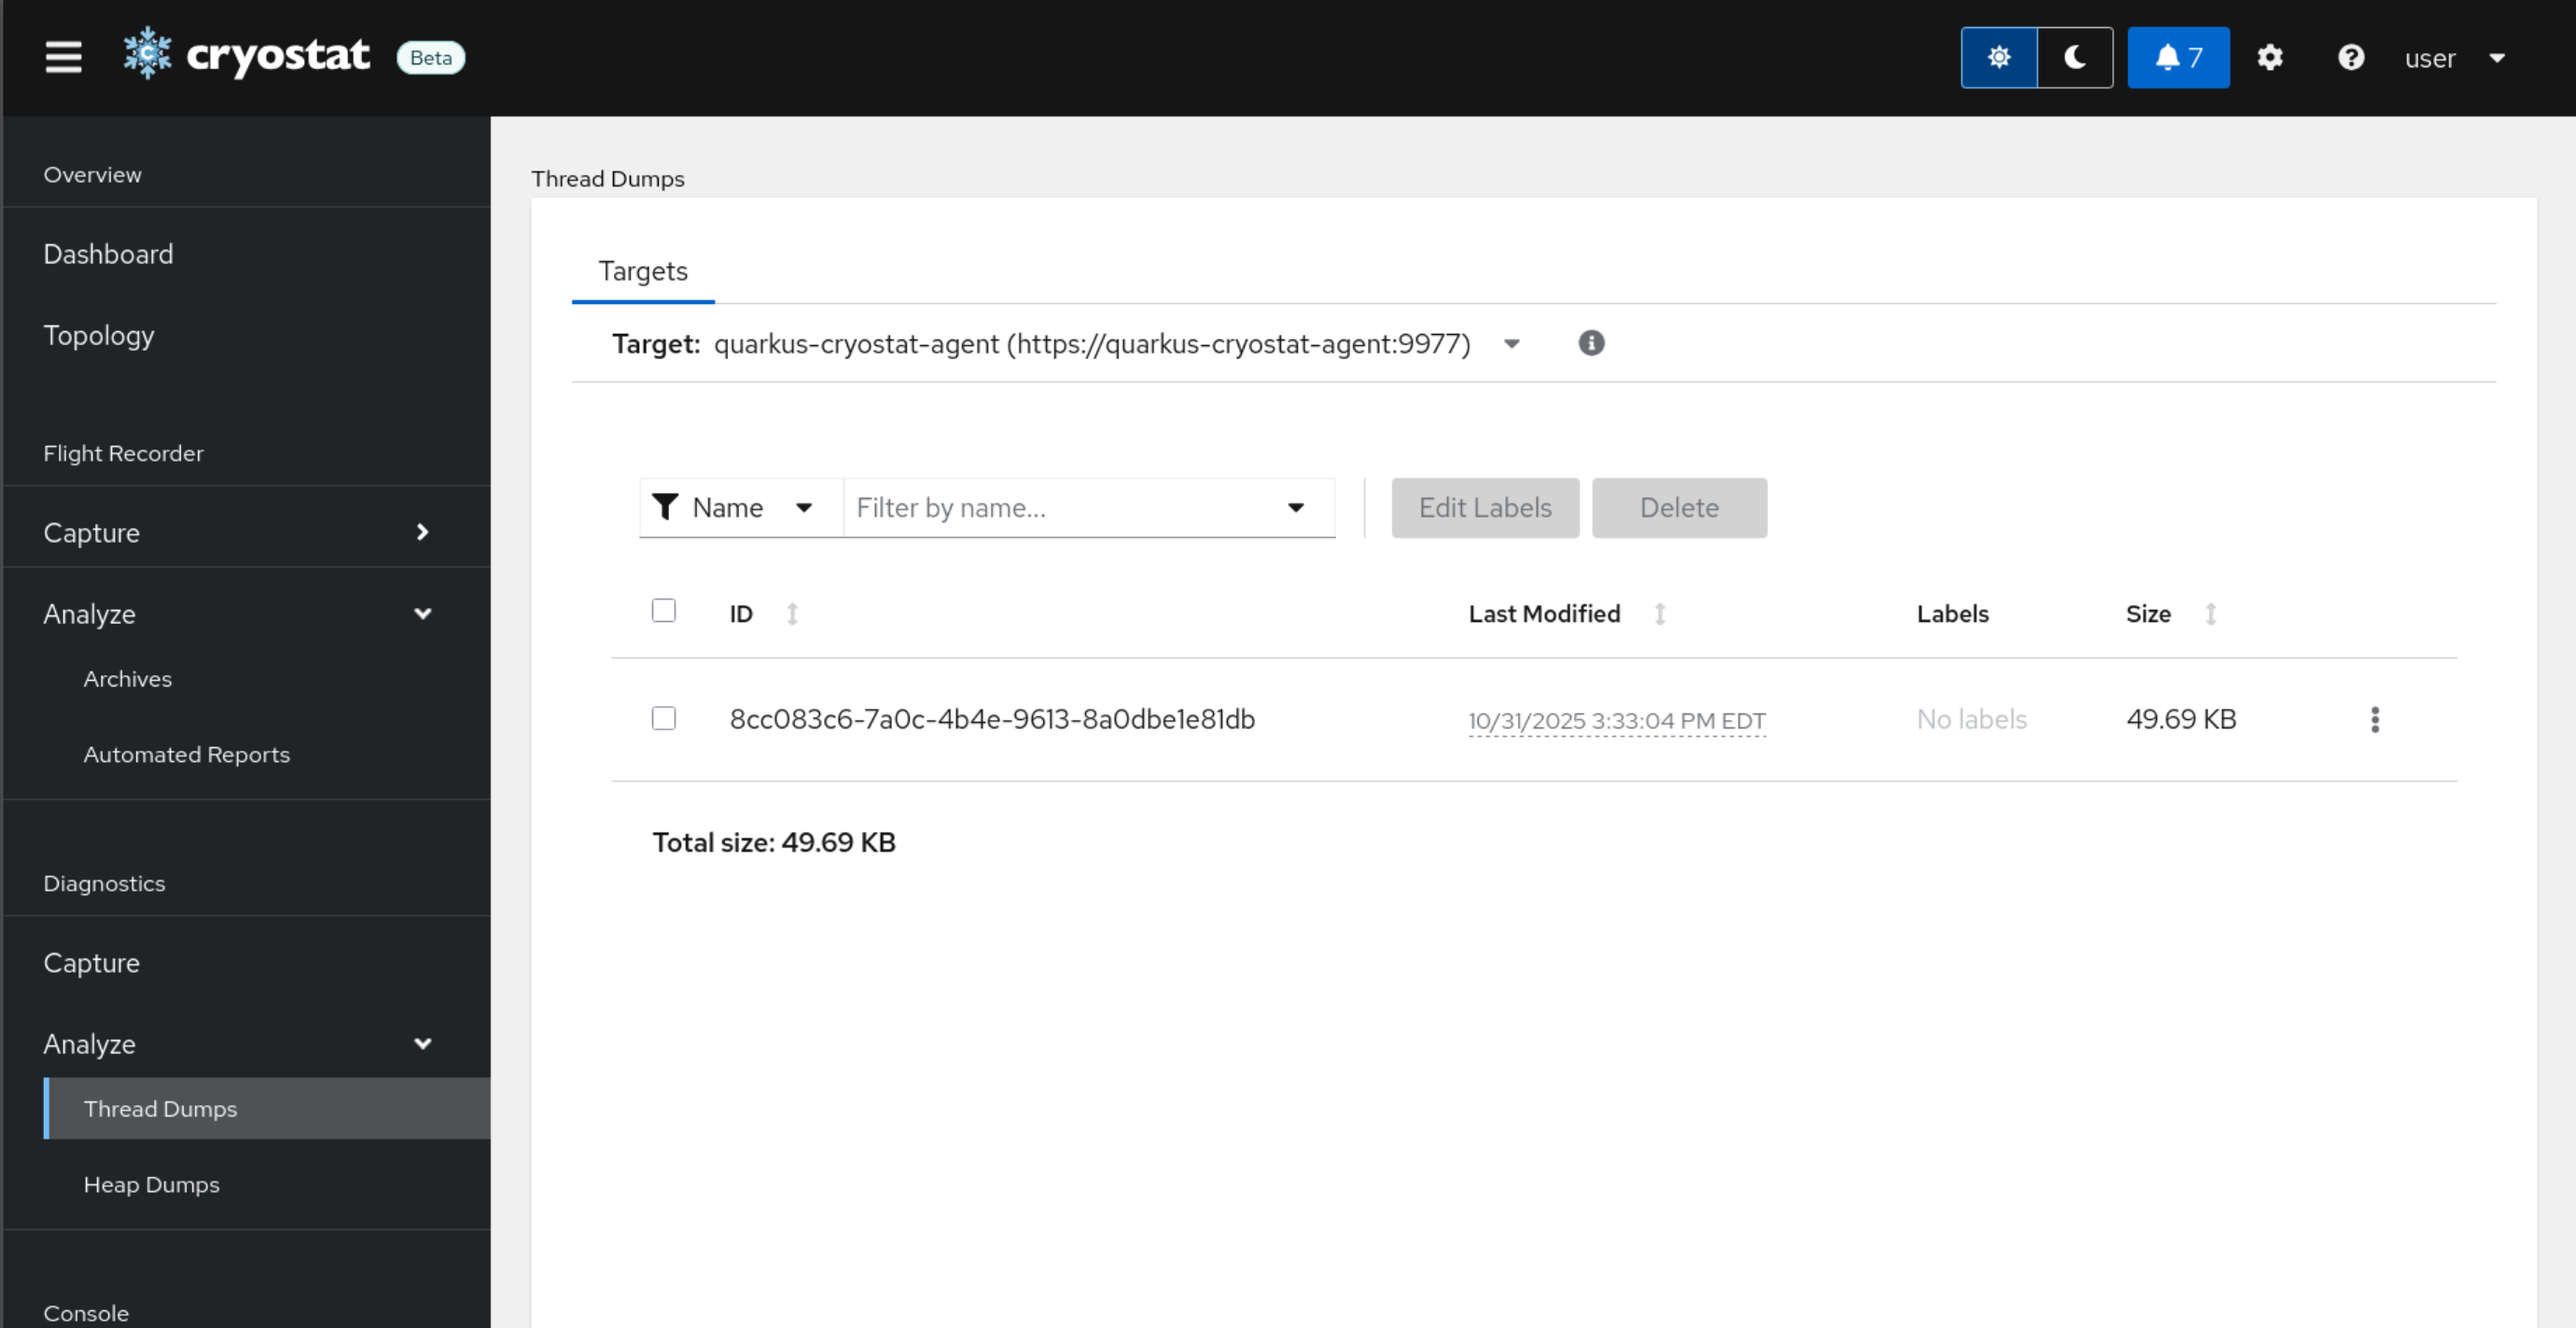
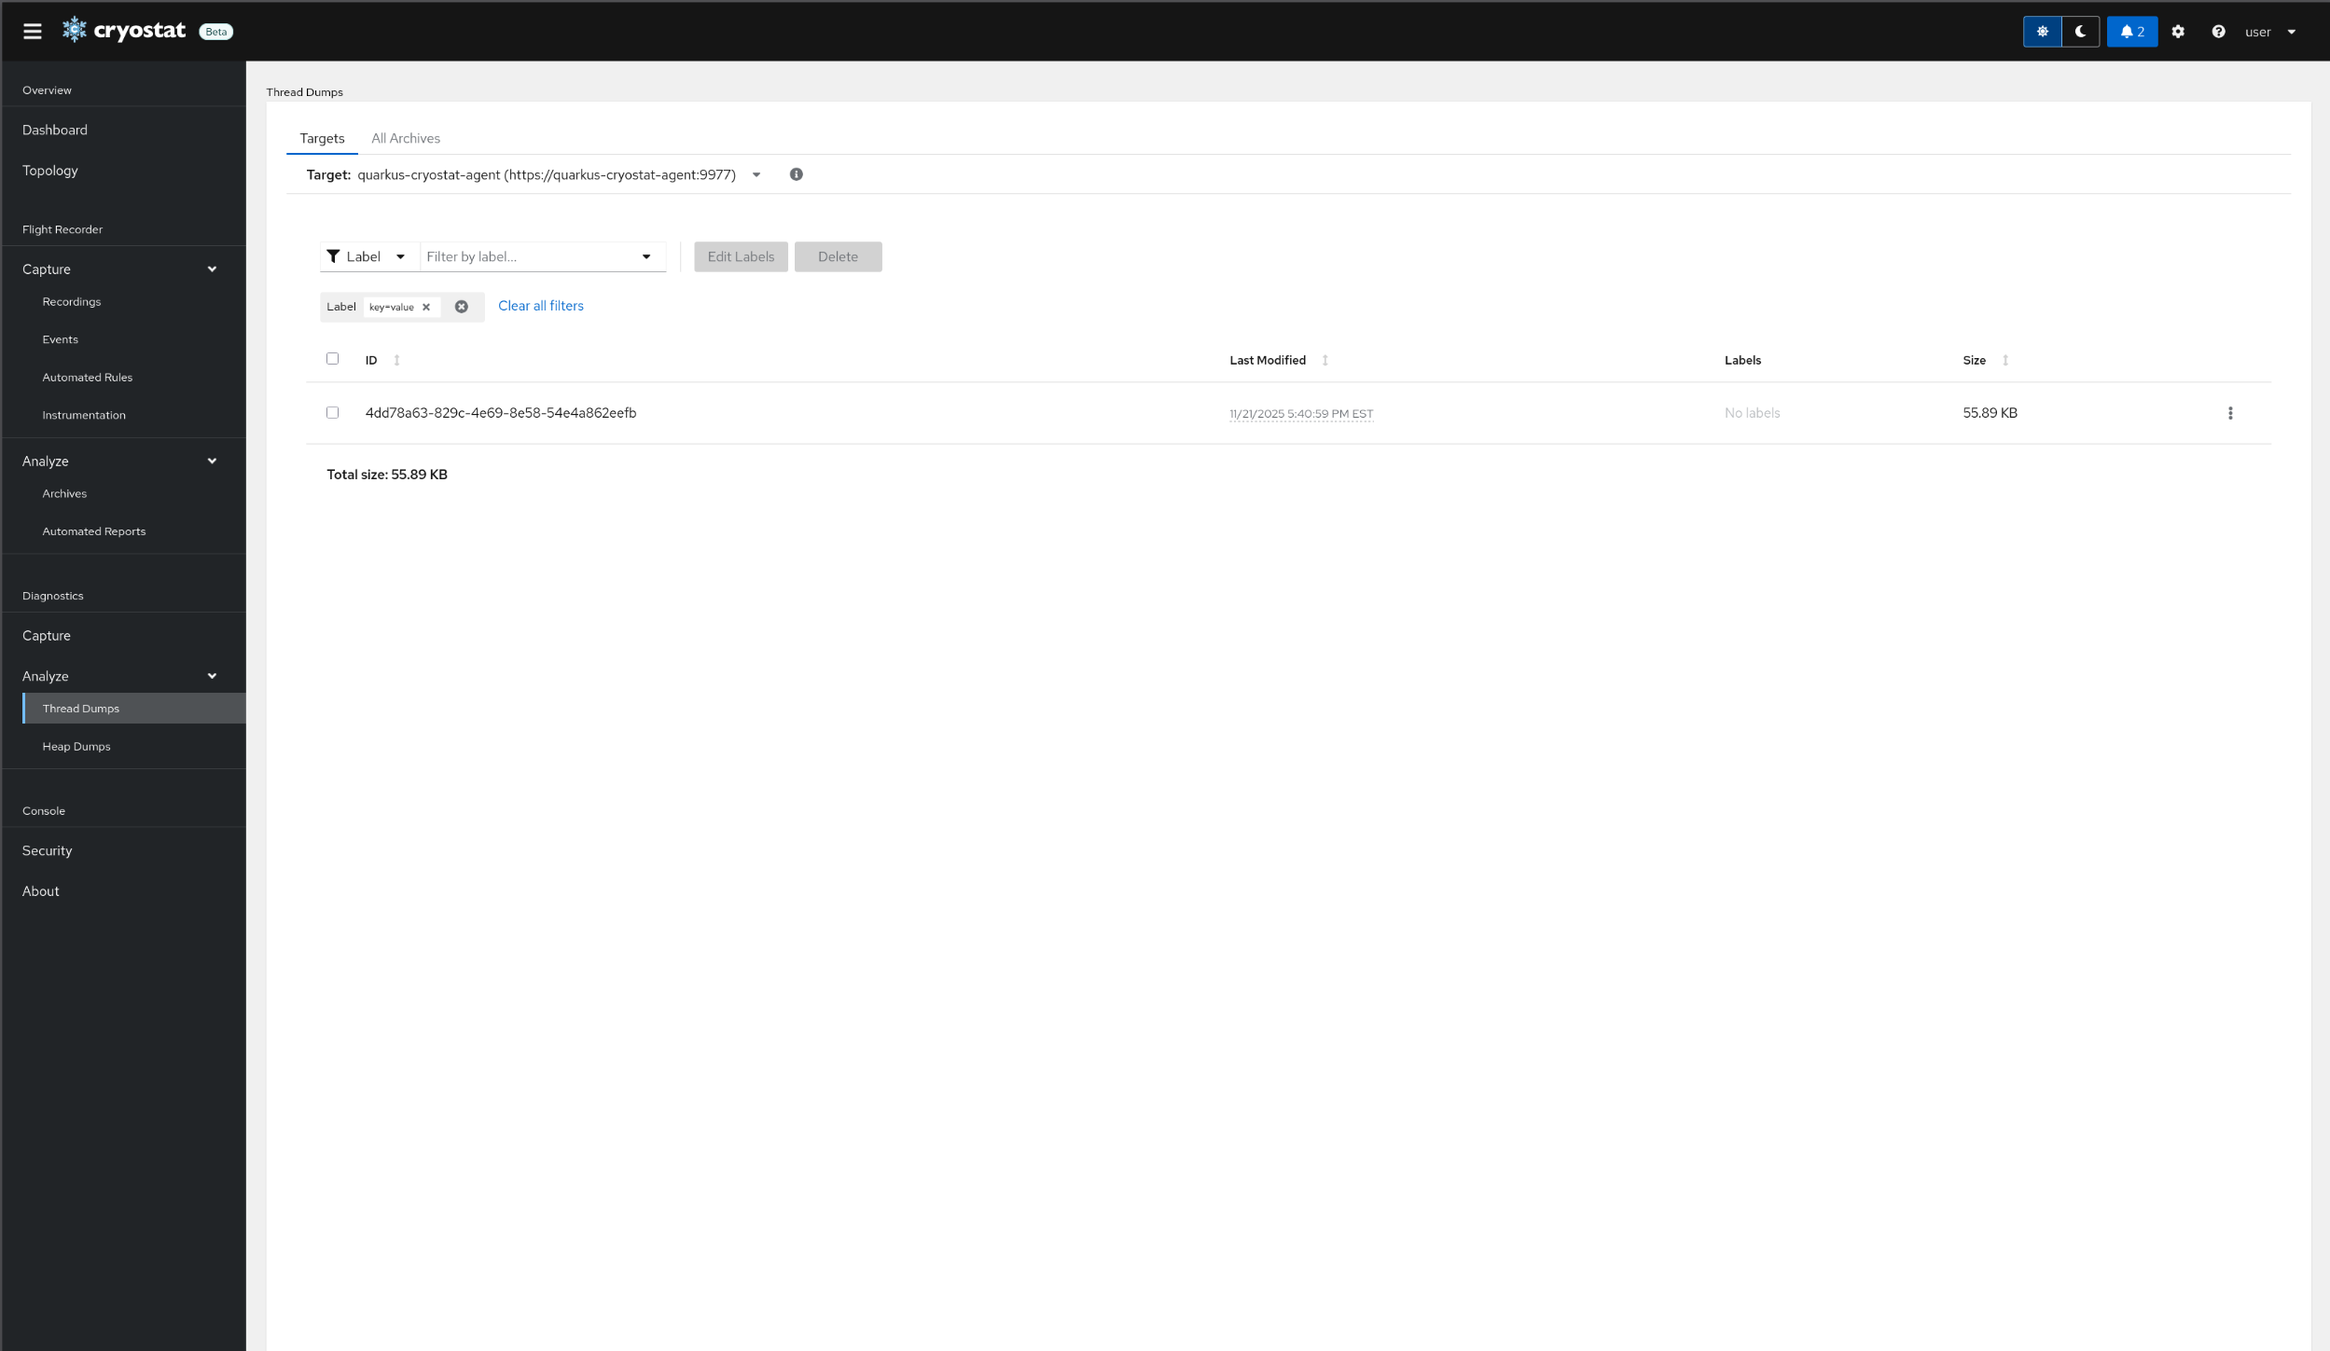
Update screenshots, typo fix, consistency fixes, detail all-archives view

diff --git a/guides/_subsections/capture-a-heap-dump.md b/guides/_subsections/capture-a-heap-dump.md
@@ -10,10 +10,10 @@
         Currently <b>Cryostat</b> supports invoking garbage collection, capturing Thread Dumps, and capturing Heap Dumps on <code>target</code> <b>JVMs</b>. Capturing Heap Dumps additionally requires a <b>Cryostat Agent</b> connection.
       </p>
       <p>
-        <b>Heap Dumps</b> are a profiling tool that is built into the JVM. They allow you to capture a snapshot of all the memory currently in use within a JVM Process at a specific moment in time. They provide detailed information about all Java objects and classes residing in heap memory at the time that aid in diagnosing performance issues, memory leaks, and othe problems with memory usage.
+        <b>Heap Dumps</b> are a profiling tool that is built into the JVM. They allow you to capture a snapshot of all the memory currently in use within a JVM Process at a specific moment in time. They provide detailed information about all Java objects and classes residing in heap memory at the time that aid in diagnosing performance issues, memory leaks, and other problems with memory usage.
       </p>
       <p>
-        You can click the <i>Invoke Heap Dump</i> button in the middle of the <code>card</code> at any time to trigger a heap dump that will then be uploaded to the archives. If the button is disabled check that the target is a <b>Cryostat Agent</b> target
+        You can click the <i>Invoke Heap Dump</i> button in the middle of the <code>card</code> at any time to trigger a <code>Heap Dump</code> that will then be uploaded to the archives. If the button is disabled check that the target is a <b>Cryostat Agent</b> target
     </p>
       {% endcapture %}
       {% include howto_step.html
@@ -35,7 +35,7 @@
         <code>target</code> <b>JVM's</b> <i>Heap Dumps</i> table. All <code>Heap Dumps</code> that were
         saved from the current <code>target</code> will be listed here in their own table.
         Switching to a different <code>target</code> from the dropdown will list only the
-        <code>Heap Dumps</code> archived from that source <code>target</code>. Alternatively, clearing the target will provide access to the All-Targets view. The name of the <code>Heap Dump</code> reflects the address of the <code>target</code> application.
+        <code>Heap Dumps</code> archived from that source <code>target</code>. Alternatively, clearing the target will provide access to the All-Targets view. There is also an All-Archives view that allows access to all <code>Heap Dumps</code> currently available in storage. The name of the <code>Heap Dump</code> reflects the address of the <code>target</code> application.
       "
     %}
   </li>

diff --git a/guides/_subsections/capture-a-thread-dump.md b/guides/_subsections/capture-a-thread-dump.md
@@ -13,7 +13,7 @@
         <b>Thread Dumps</b> are a profiling tool that is built into the <b>JVM</b>. They allow you to capture a snapshot of all the threads currently running within a <b>JVM</b> Process at a specific moment in time. They provide detailed information about each thread that aid in diagnosing performance issues, identifying deadlocks and determining other problems with concurrency.
       </p>
       <p>
-        You can click the <i>Invoke Thread Dump</i> button in the middle of the <code>card</code> at any time to trigger a thread dump that will then be uploaded to the archives.
+        You can click the <i>Invoke Thread Dump</i> button in the middle of the <code>card</code> at any time to trigger a <code>Thread Dump</code> that will then be uploaded to the archives.
     </p>
       {% endcapture %}
       {% include howto_step.html
@@ -35,7 +35,7 @@
         <code>target</code> <b>JVM's</b> <i>Thread Dumps</i> table. All <code>Thread Dumps</code> that were
         saved from the current <code>target</code> will be listed here in their own table.
         Switching to a different <code>target</code> from the dropdown will list only the
-        <code>Thread Dumps</code> archived from that source <code>target</code>. Alternatively, clearing the target will provide access to the All-Targets view. The name of the <code>Thread Dump</code> reflects the address of the <code>target</code> application.
+        <code>Thread Dumps</code> archived from that source <code>target</code>. Alternatively, clearing the target will provide access to the All-Targets view. There is also an All-Archives view that allows access to all <code>Thread Dumps</code> currently available in storage. The name of the <code>Thread Dump</code> reflects the address of the <code>target</code> application.
       "
     %}
   </li>
